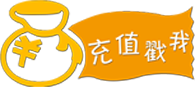
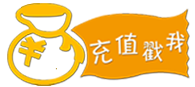
wangxunjun

diff --git a/src/main/webapp/resources/js/phoneTopUp.js b/src/main/webapp/resources/js/phoneTopUp.js
@@ -6,8 +6,8 @@ var phoneNumalidation =false;
 
 $(function () {
     initBind();
-
 });
+
 function initBind() {
 //    输入号码失焦点 绑定
 	$('#phoneDetailId').hide();
@@ -15,10 +15,9 @@ function initBind() {
     $('#phoneNumId').blur(function ()
     {
     	phoneNumalidation = false;
-
     	//发送验证请求 成功返沪
-//    	phoneNumalidation = true;
-    	var data = "";
+    	phoneNumalidation = true;
+    	var data = "123456789";
     	phoneDetailId(data);
     	//失败    	
     });
@@ -94,7 +93,6 @@ function phoneDetailId(data){
 	}
 	$('#phoneDetailId').show();
 	//加载数据
-
 }
 
 
@@ -113,13 +111,10 @@ function clearInputNum(){
 }
 
 
-
 function refreshTotleAmount(realPrice) {
 	var text = "优惠价："+ realPrice;
 	$("#preferentialId").html(text);
 }
-
-
 
 
 //匹配国内电话号码(0511-4405222 或 021-87888822)
@@ -134,7 +129,7 @@ function istell(str)
 function isPhoneNum(strPhoneNum)
 {
 	if(strPhoneNum && /^(13[0-9]|14[5|7]|15[0|1|2|3|5|6|7|8|9]|18[0-9]|170)\d{8}$/.test(strPhoneNum)){
-	    return true;//是手机号
+	    return true;  //是手机号
 	} else{
 	    return false; //不是手机号
 	}

diff --git a/src/main/webapp/resources/css/weShopIndex.css b/src/main/webapp/resources/css/weShopIndex.css
@@ -84,7 +84,7 @@ p {
   width: 100%;
   height: 100%;
   display: block;
-  background-size: 80px 36px;
+  background-size: 80px 37px;
   background-position:center;
   background-repeat: no-repeat;
   background-image: url("../image/weShop/top-up.png");

diff --git a/src/main/webapp/resources/css/phoneTopUp.css b/src/main/webapp/resources/css/phoneTopUp.css
@@ -27,7 +27,7 @@
 
 .phoneNumContainer .top-upNumber div{
     height: 45px;
-    width: 200px;
+    width: 180px;
     padding:8px ;
 }
 
